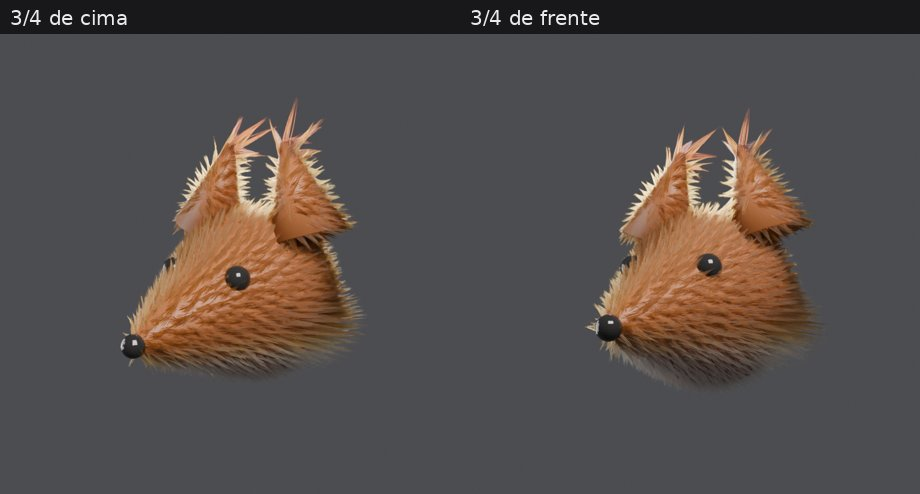
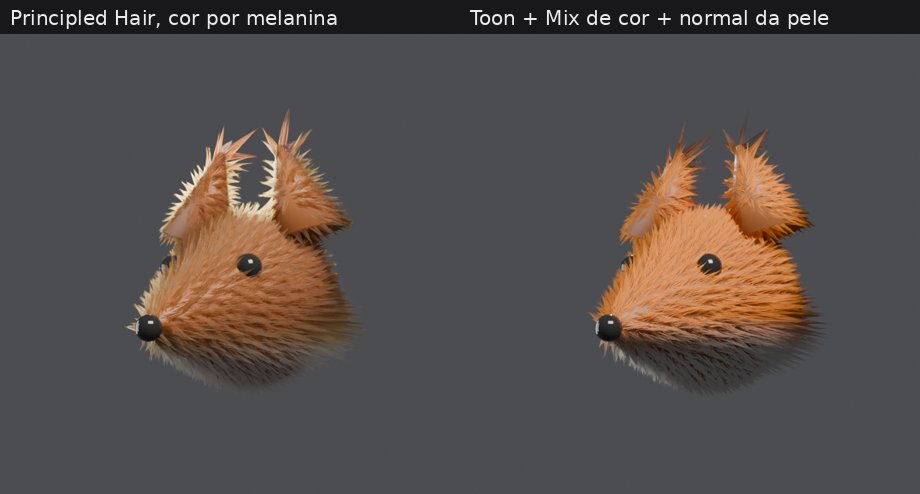
Laboratorio: raposa em Toon confirma cor de manchas por Mix, nao melanina
Claude-Session: https://claude.ai/code/session_01X2WLpJ3ZerMyfhQCw5D11G

diff --git a/Estudos Extras Curriculares/Blender Hair Geometry Nodes/laboratorio/scripts/r91c_toon.py b/Estudos Extras Curriculares/Blender Hair Geometry Nodes/laboratorio/scripts/r91c_toon.py
@@ -1,0 +1,66 @@
+import sys; sys.path.insert(0,'.')
+from lab import *
+import lab; lab.LIGHT_K = 0.6
+import math
+LIB = os.path.join(LAB, "receitas_grooming.blend")
+reset(); EG = essentials()
+with bpy.data.libraries.load(LIB, link=False, assets_only=True) as (src, dst): dst.node_groups = [n for n in src.node_groups if n.startswith("GR ")]
+GR = {n.name:n for n in bpy.data.node_groups}
+# cabeca de raposa: esfera + focinho + orelhas (uma malha, com UV)
+bm = bmesh.new(); bm.loops.layers.uv.new("UVMap")
+bmesh.ops.create_uvsphere(bm, u_segments=64, v_segments=32, radius=0.1, calc_uvs=True)
+for v in bm.verts:
+    if v.co.y < 0:   # focinho: estica para frente e afina
+        k = min(1.0, -v.co.y/0.1); v.co.y *= 1.0 + 0.9*k*k; v.co.x *= 1.0 - 0.45*k*k; v.co.z = v.co.z*(1.0-0.4*k*k) - 0.02*k*k
+for sx in (-1,1):
+    r = bmesh.ops.create_cone(bm, cap_ends=True, segments=24, radius1=0.045, radius2=0.004, depth=0.11, calc_uvs=True)
+    vs = r['verts']
+    bmesh.ops.rotate(bm, verts=vs, cent=(0,0,0), matrix=Matrix.Rotation(math.radians(-18*sx), 3, 'Y'))
+    bmesh.ops.translate(bm, verts=vs, vec=(sx*0.055, 0.01, 0.125))
+me = bpy.data.meshes.new("raposa"); bm.to_mesh(me); bm.free()
+for p in me.polygons: p.use_smooth = True
+body = link(bpy.data.objects.new("raposa", me)); sk = bpy.data.materials.new("pele"); sk.node_tree.nodes['Principled BSDF'].inputs['Base Color'].default_value = (0.3,0.1,0.03,1); body.data.materials.append(sk)
+w = bpy.data.materials.new("eye"); w.node_tree.nodes['Principled BSDF'].inputs['Base Color'].default_value=(0.02,0.02,0.02,1); w.node_tree.nodes['Principled BSDF'].inputs['Roughness'].default_value=0.05
+for sx in (-1,1):
+    bpy.ops.mesh.primitive_uv_sphere_add(radius=0.014, location=(sx*0.045,-0.085,0.035)); e=bpy.context.object; e.data.materials.append(w); bpy.ops.object.shade_smooth()
+bpy.ops.mesh.primitive_uv_sphere_add(radius=0.012, location=(0,-0.19,-0.02)); nz_=bpy.context.object; nz_.data.materials.append(w)
+cd = bpy.data.hair_curves.new("pelo"); g = link(bpy.data.objects.new("pelo", cd)); cd.surface = body; cd.surface_uv_map = "UVMap"
+t = Tree("rp")
+gen = t.add('GeometryNodeGroup', group=EG['Generate Hair Curves']); t.link(t.geo, gen.inputs['Hair Surface']); t.link(value(t, 120000.0), gen.inputs['Density'])
+gen.inputs['Hair Length'].default_value = 0.02; gen.inputs['Control Points'].default_value = 6; gen.inputs['Distribution Method'].default_value = 'Poisson Disk'
+t.geo = gen.outputs['Geometry']
+# fluxo: da ponta do focinho para tras (curva reta)
+cu = bpy.data.curves.new("fluxo", 'CURVE'); cu.dimensions='3D'; sp = cu.splines.new('POLY'); sp.points.add(30)
+for i,p_ in enumerate(sp.points): p_.co = (0, -0.20 + i*0.32/30, 0.02, 1)
+flow = link(bpy.data.objects.new("fluxo", cu)); flow.hide_render = True
+pc = t.add('GeometryNodeGroup', group=GR["GR Pentear por Curva"]); t.chain(pc); pc.inputs["Curva de fluxo"].default_value = flow; pc.inputs["Levanta"].default_value = 0.35
+# comprimento por regiao: bochechas (lateral baixa) e ponta da orelha longos
+cr = t.add('GeometryNodeGroup', group=EG['Curve Root']); sx = t.add('ShaderNodeSeparateXYZ'); t.link(cr.outputs['Root Position'], sx.inputs[0])
+ax = t.add('ShaderNodeMath', props={'operation':'ABSOLUTE'}); t.link(sx.outputs['X'], ax.inputs[0])
+bo = t.add('ShaderNodeMapRange', props={'interpolation_type':'SMOOTHSTEP'}); bo.clamp=True; t.link(ax.outputs[0], bo.inputs['Value']); bo.inputs['From Min'].default_value=0.06; bo.inputs['From Max'].default_value=0.095
+bz = t.add('ShaderNodeMapRange', props={'interpolation_type':'SMOOTHSTEP'}); bz.clamp=True; t.link(sx.outputs['Z'], bz.inputs['Value']); bz.inputs['From Min'].default_value=0.02; bz.inputs['From Max'].default_value=-0.03
+bch = t.add('ShaderNodeMath', props={'operation':'MULTIPLY'}); t.link(bo.outputs['Result'], bch.inputs[0]); t.link(bz.outputs['Result'], bch.inputs[1])
+oz = t.add('ShaderNodeMapRange', props={'interpolation_type':'SMOOTHSTEP'}); oz.clamp=True; t.link(sx.outputs['Z'], oz.inputs['Value']); oz.inputs['From Min'].default_value=0.15; oz.inputs['From Max'].default_value=0.175
+mx = t.add('ShaderNodeMath', props={'operation':'MAXIMUM'}); t.link(bch.outputs[0], mx.inputs[0]); t.link(oz.outputs['Result'], mx.inputs[1])
+lf = t.add('ShaderNodeMath', props={'operation':'MULTIPLY_ADD'}); t.link(mx.outputs[0], lf.inputs[0]); lf.inputs[1].default_value = 2.2; lf.inputs[2].default_value = 1.0
+ev = t.add('GeometryNodeFieldOnDomain', props={'domain':'CURVE','data_type':'FLOAT'}); t.link(lf.outputs[0], ev.inputs[0])
+tr = t.eg(EG['Trim Hair Curves'], Replace_Length=False, Scale_Uniform=False); t.link(ev.outputs[0], tr.inputs['Length Factor'])
+t.eg(EG['Clump Hair Curves'], Factor=1.0, Shape=0.2, Tip_Spread=0.0005, Preserve_Length=True, Guide_Distance=0.008, Existing_Guide_Map=False, Seed=2)
+# cor: branco no peito/queixo (z baixo e frente), laranja no resto, ponta da orelha escura
+wz = t.add('ShaderNodeMapRange', props={'interpolation_type':'SMOOTHSTEP'}); wz.clamp=True; t.link(sx.outputs['Z'], wz.inputs['Value']); wz.inputs['From Min'].default_value=-0.01; wz.inputs['From Max'].default_value=-0.05
+e2 = t.add('GeometryNodeFieldOnDomain', props={'domain':'CURVE','data_type':'FLOAT'}); t.link(wz.outputs['Result'], e2.inputs[0])
+s2 = t.add('GeometryNodeStoreNamedAttribute', props={'data_type':'FLOAT','domain':'CURVE'}); s2.inputs['Name'].default_value='branco'; t.chain(s2); t.link(e2.outputs[0], s2.inputs['Value'])
+e3 = t.add('GeometryNodeFieldOnDomain', props={'domain':'CURVE','data_type':'FLOAT'}); t.link(oz.outputs['Result'], e3.inputs[0])
+s3 = t.add('GeometryNodeStoreNamedAttribute', props={'data_type':'FLOAT','domain':'CURVE'}); s3.inputs['Name'].default_value='orelha'; t.chain(s3); t.link(e3.outputs[0], s3.inputs['Value'])
+profile(t, EG, radius=0.00035)
+nm_ = t.add('GeometryNodeGroup', group=GR["GR Normal da Malha"]); nm_.inputs["Malha"].default_value = body; t.chain(nm_)
+m = bpy.data.materials.new("raposa_toon"); nt = m.node_tree; nt.nodes.clear(); o = nt.nodes.new('ShaderNodeOutputMaterial')
+a = nt.nodes.new('ShaderNodeAttribute'); a.attribute_name='branco'; b_ = nt.nodes.new('ShaderNodeAttribute'); b_.attribute_name='orelha'
+c1 = nt.nodes.new('ShaderNodeMix'); c1.data_type='RGBA'; c1.inputs[6].default_value=(0.75,0.25,0.04,1); c1.inputs[7].default_value=(0.95,0.92,0.85,1); nt.links.new(a.outputs['Fac'], c1.inputs[0])
+c2 = nt.nodes.new('ShaderNodeMix'); c2.data_type='RGBA'; nt.links.new(c1.outputs[2], c2.inputs[6]); c2.inputs[7].default_value=(0.05,0.02,0.015,1); nt.links.new(b_.outputs['Fac'], c2.inputs[0])
+d = nt.nodes.new('ShaderNodeBsdfToon'); d.component='DIFFUSE'; d.inputs['Size'].default_value=0.6; d.inputs['Smooth'].default_value=0.2; nt.links.new(c2.outputs[2], d.inputs['Color'])
+an = nt.nodes.new('ShaderNodeAttribute'); an.attribute_name='nvol'; vt = nt.nodes.new('ShaderNodeVectorTransform'); vt.vector_type='NORMAL'; vt.convert_from='OBJECT'; vt.convert_to='WORLD'; nt.links.new(an.outputs['Vector'], vt.inputs[0]); nt.links.new(vt.outputs[0], d.inputs['Normal'])
+nt.links.new(d.outputs[0], o.inputs['Surface'])
+set_mat(t, m); apply_tree(g, t.finish())
+print("INFO", stats(g).get('curves'), stats(g).get('points'))
+shot("91_raposa_toon", res=720, samples=32, cam_loc=(0.30,-0.60,0.02), target=(0,-0.04,0.04), lens=45)

diff --git a/Estudos Extras Curriculares/_referencia/grooming/CEREBRO_GROOMING.md b/Estudos Extras Curriculares/_referencia/grooming/CEREBRO_GROOMING.md
@@ -2473,3 +2473,7 @@ para o shader. 23,5 mil fios, 141 mil pontos, render 720 px em 10 s.
   atributos (17.15, 17.64), não a melanina.
 - O branco embaixo do queixo fica na sombra: em personagem, ponha a região
   clara onde a luz principal bate, ou compense com emissão/luz de preenchimento.
+- **Confirmado** refazendo só o material: Toon Diffuse (Size 0,6, Smooth 0,2)
+  com cor = Mix(laranja, creme, `branco`) → Mix(…, quase preto, `orelha`) e
+  Normal = `nvol` da GR Normal da Malha com o corpo. Laranja saturado, queixo
+  branco e ponta da orelha escura aparecem [img/finais/91_raposa_toon].

diff --git a/Estudos Extras Curriculares/Blender Hair Geometry Nodes/laboratorio/scripts/NOTAS.md b/Estudos Extras Curriculares/Blender Hair Geometry Nodes/laboratorio/scripts/NOTAS.md
@@ -96,3 +96,4 @@
 - Barba: fio 600k/m2 clump 8mm; blocos 4000/m2 Chunky raio 1,2cm + Cel + Contorno. Normal da cabeca deixa a barba escura (aponta para baixo): usar casca frontal.
 - Minimo: 4 nodes 23 ms (peruca); 5 nodes + Clump 0,25 46 ms (estilizado); 7 + Curl Sub2 + Roll Sub0 646 ms.
 - Raposa: comprimento por regiao (bochecha, ponta orelha) ok; cor por melanina nao contrasta (branco 0,02 ainda laranja; ponta +0,5 fraca): usar Principled BSDF/Toon com Color Ramp.
+- Raposa Toon: Mix de cor pelos atributos + nvol do corpo -> manchas aparecem. Confirma: cor de mancha por Color/Mix, nao melanina.
